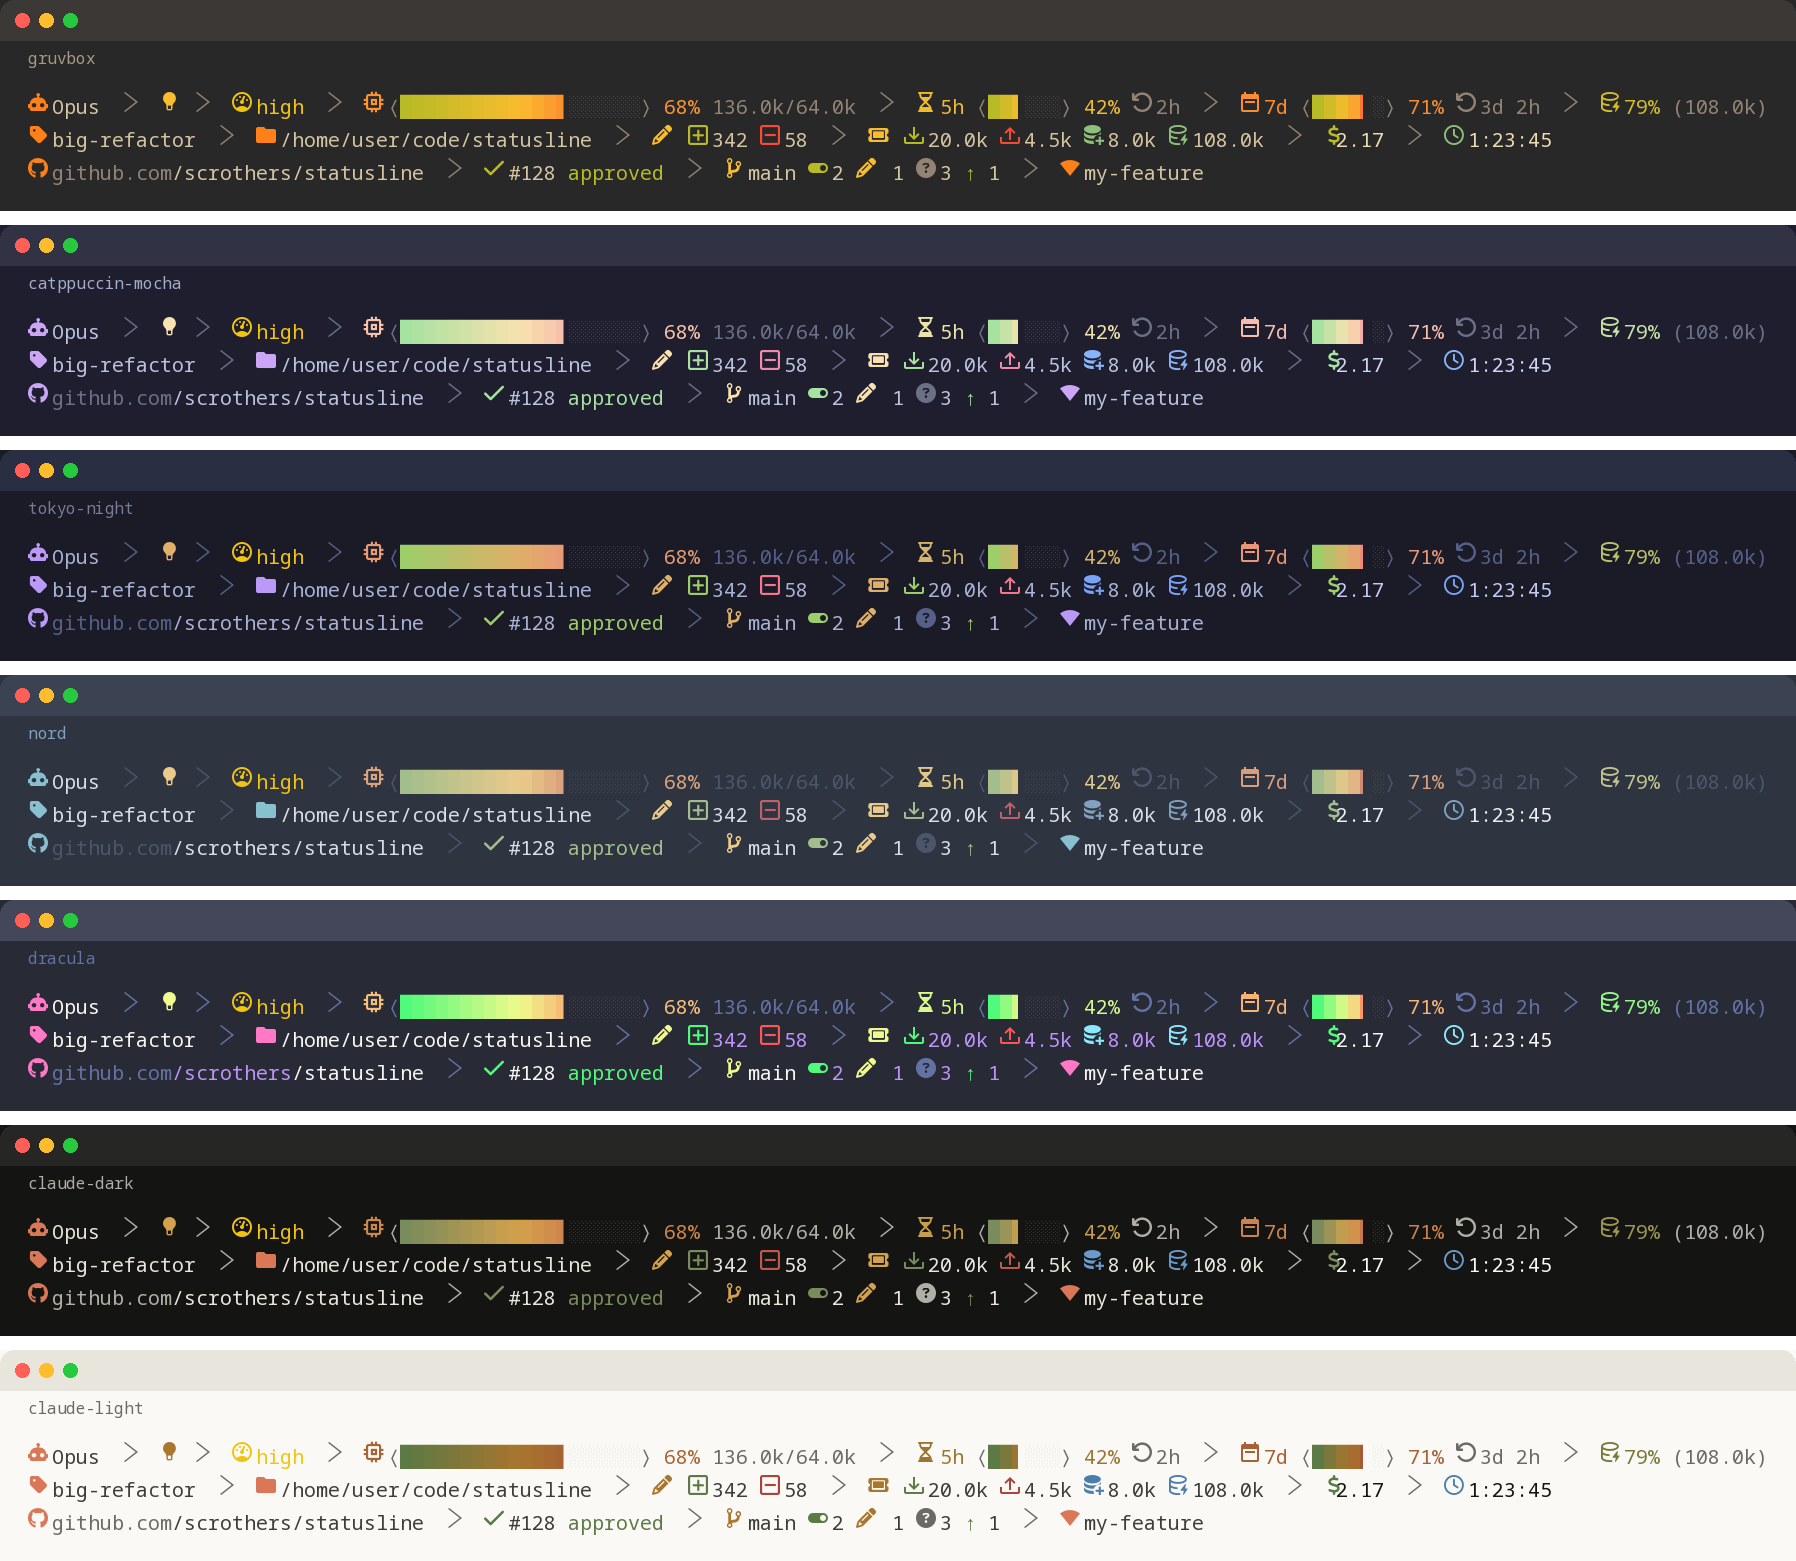
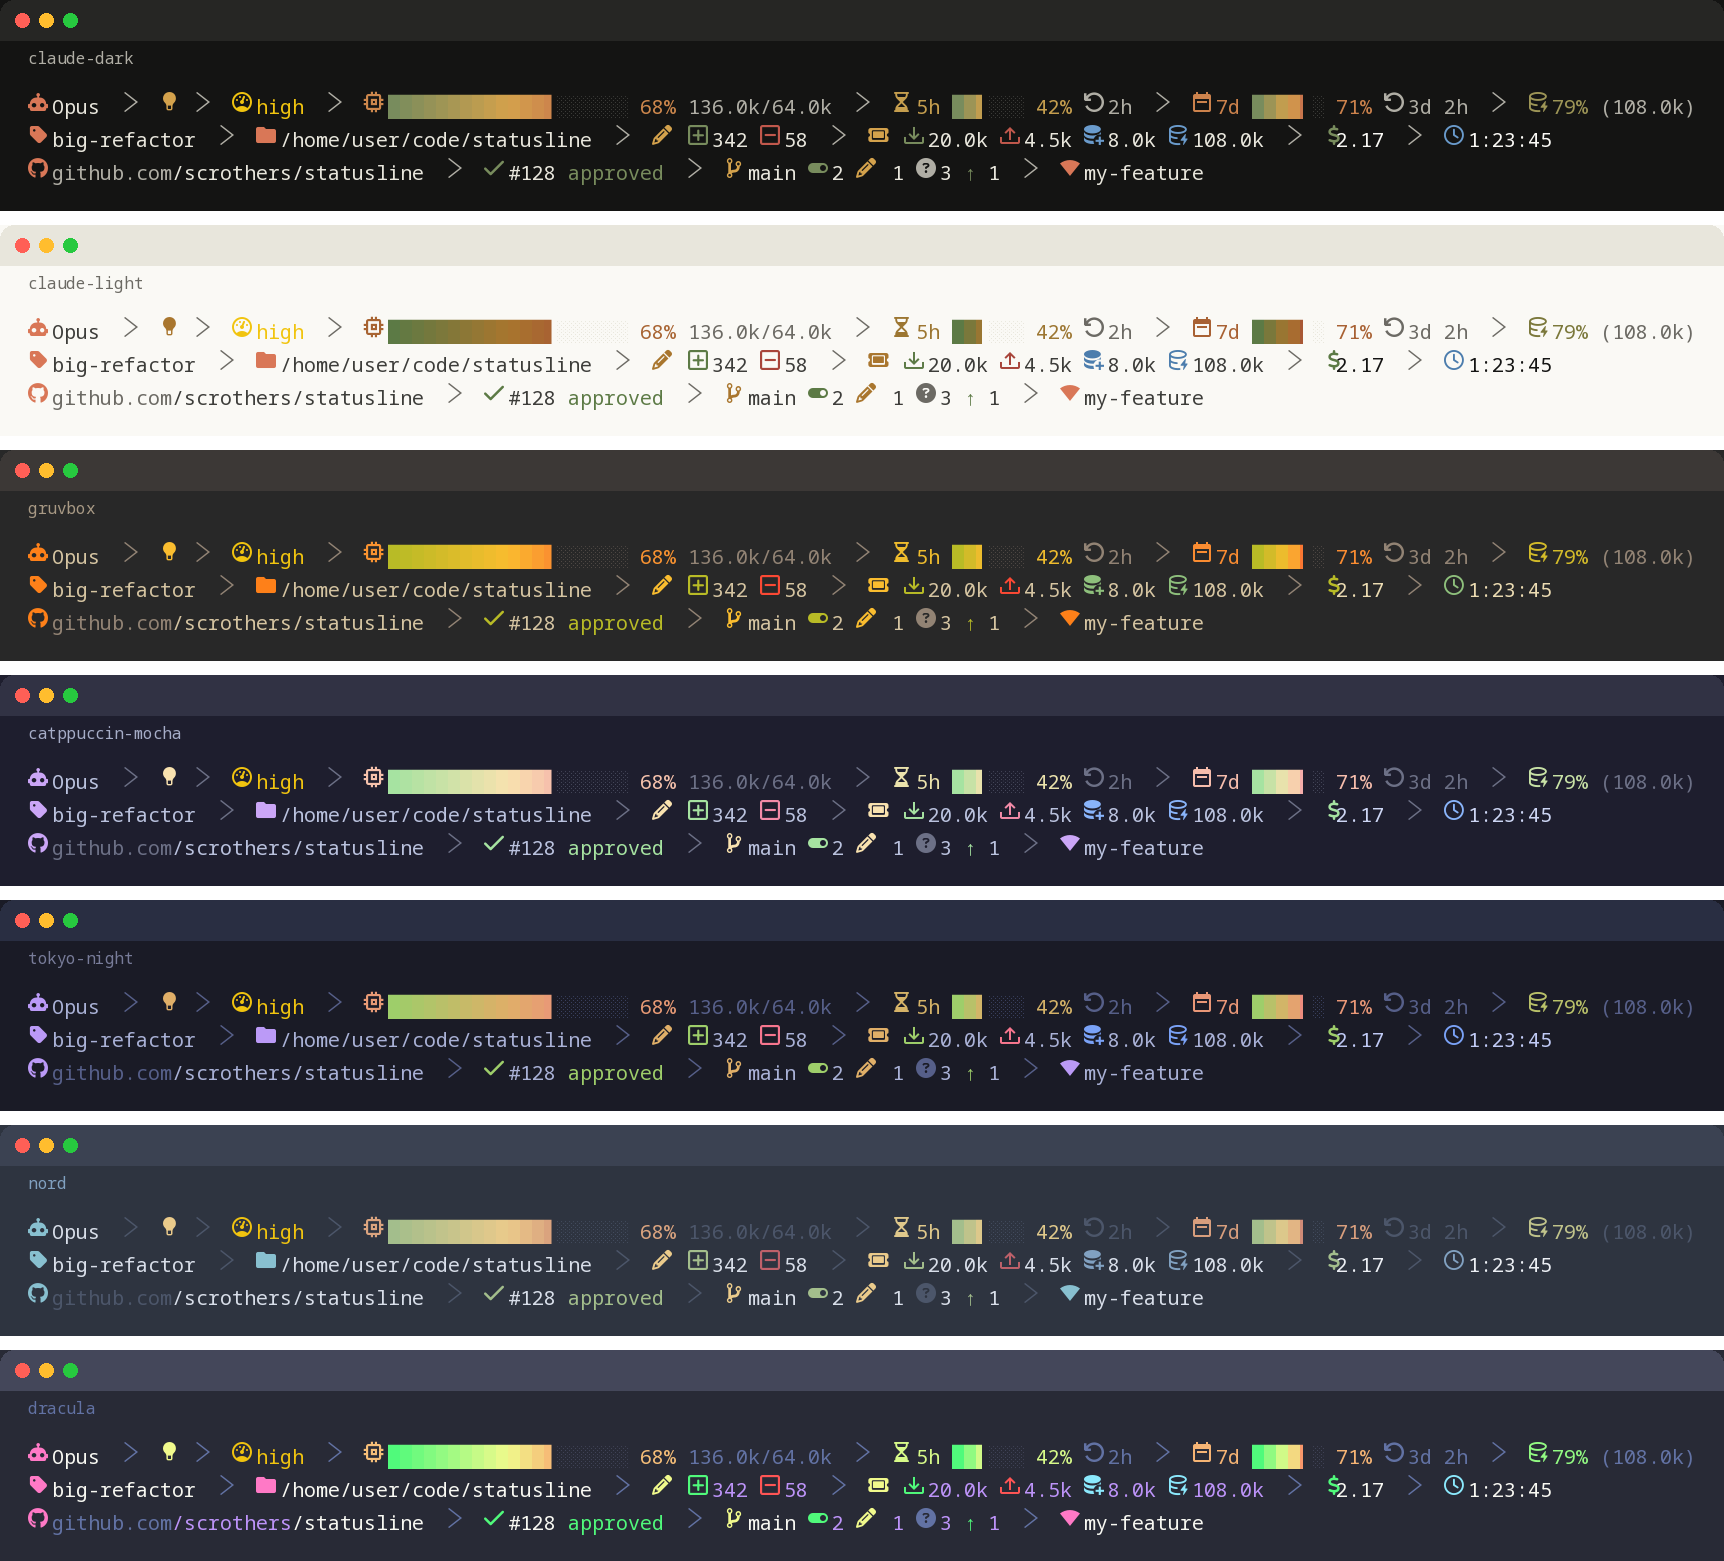
segment: drop the bracket characters around gauge bars
context_window and both ratelimit_* gauges wrapped their bar in
angle-bracket characters purely for visual framing; removed as
noise, with the bar now separated from its icon/label and percentage
by a single space instead.

Regenerated docs/img/hero.png and docs/img/themes.png to reflect
this and the claude-dark default theme change.

diff --git a/internal/segment/ratelimit.go b/internal/segment/ratelimit.go
@@ -25,10 +25,10 @@ const (
 
 // rateLimitSegment renders one Claude subscription rate-limit gauge, styled
 // to match the context-window gauge: an icon, an explicit window label
-// ("5h"/"7d") so the two gauges aren't distinguishable by icon alone, a
-// bracketed bar whose filled cells follow the same fixed green-to-red
-// position gradient, the percentage, and (when the payload reports a reset
-// time) a human-friendly countdown to when the window resets. FiveHour and
+// ("5h"/"7d") so the two gauges aren't distinguishable by icon alone, a bar
+// whose filled cells follow the same fixed green-to-red position gradient,
+// the percentage, and (when the payload reports a reset time) a
+// human-friendly countdown to when the window resets. FiveHour and
 // SevenDay are registered as separate Segment instances (ratelimit_5h /
 // ratelimit_7d) since either window may be independently absent from the
 // payload.
@@ -73,15 +73,14 @@ func (s rateLimitSegment) Render(rc *RenderContext) ([]style.Chunk, bool) {
 	filled, track := style.BlockBarParts(win.UsedPercentage, rateLimitGaugeWidth)
 	icon := theme.Glyph(iconKey, rc.Config.NerdFontEnabled())
 
-	chunks := make([]style.Chunk, 0, rateLimitGaugeWidth+6)
+	chunks := make([]style.Chunk, 0, rateLimitGaugeWidth+5)
 	chunks = append(chunks,
 		style.Chunk{Text: icon + " " + label, FG: color},
-		style.Chunk{Text: " ⟨", FG: rc.Theme.Muted},
+		style.Chunk{Text: " ", FG: rc.Theme.Muted},
 	)
 	chunks = append(chunks, gradientBarCellChunks(rc.Theme, filled, rateLimitGaugeWidth)...)
 	chunks = append(chunks,
 		style.Chunk{Text: track, FG: rc.Theme.TrackDim},
-		style.Chunk{Text: "⟩", FG: rc.Theme.Muted},
 		style.Chunk{Text: fmt.Sprintf(" %.0f%%", win.UsedPercentage), FG: color},
 	)
 	if win.ResetsAt > 0 {

diff --git a/internal/segment/context_window.go b/internal/segment/context_window.go
@@ -48,7 +48,7 @@ func (contextWindowSegment) Render(rc *RenderContext) ([]style.Chunk, bool) {
 
 	if rc.Payload.Exceeds200k || pct >= contextAlertThreshold {
 		icon := theme.Glyph(theme.IconContextAlert, nerd)
-		text := icon + " ⟨" + filled + track + "⟩ " + pctText + countsText
+		text := icon + " " + filled + track + " " + pctText + countsText
 		return []style.Chunk{{Text: text, FG: rc.Theme.Danger, Bold: true}}, true
 	}
 
@@ -56,12 +56,12 @@ func (contextWindowSegment) Render(rc *RenderContext) ([]style.Chunk, bool) {
 	icon := theme.Glyph(theme.IconContextWindow, nerd)
 	chunks := []style.Chunk{
 		{Text: icon, FG: color},
-		{Text: " ⟨", FG: rc.Theme.Muted},
+		{Text: " ", FG: rc.Theme.Muted},
 	}
 	chunks = append(chunks, gradientBarCellChunks(rc.Theme, filled, width)...)
 	chunks = append(chunks,
 		style.Chunk{Text: track, FG: rc.Theme.TrackDim},
-		style.Chunk{Text: "⟩ ", FG: rc.Theme.Muted},
+		style.Chunk{Text: " ", FG: rc.Theme.Muted},
 		style.Chunk{Text: pctText, FG: color},
 	)
 	if countsText != "" {

diff --git a/internal/segment/context_window_test.go b/internal/segment/context_window_test.go
@@ -85,8 +85,8 @@ func TestContextWindowSegment_barCellsStayFixedAsFillGrows(t *testing.T) {
 		t.Fatal("Render() ok = false, want true")
 	}
 
-	// Both renders start with the same icon + " ⟨" chunks (indices 0-1)
-	// before the per-cell bar chunks begin at index 2.
+	// Both renders start with the same icon + separator-space chunks
+	// (indices 0-1) before the per-cell bar chunks begin at index 2.
 	const barStart = 2
 	filledAtLow, _ := style.BlockBarParts(20, 10)
 	lowFilledCount := len([]rune(filledAtLow))

diff --git a/internal/segment/ratelimit_test.go b/internal/segment/ratelimit_test.go
@@ -141,7 +141,7 @@ func TestRateLimitSegment(t *testing.T) {
 		if !ok {
 			t.Fatal("Render() ok = false, want true")
 		}
-		// chunks[0] = icon+label, chunks[1] = " ⟨", chunks[2:2+width] = bar cells.
+		// chunks[0] = icon+label, chunks[1] = separator space, chunks[2:2+width] = bar cells.
 		const barStart = 2
 		for i := range rateLimitGaugeWidth {
 			want := positionGradientColor(&th, i, rateLimitGaugeWidth)